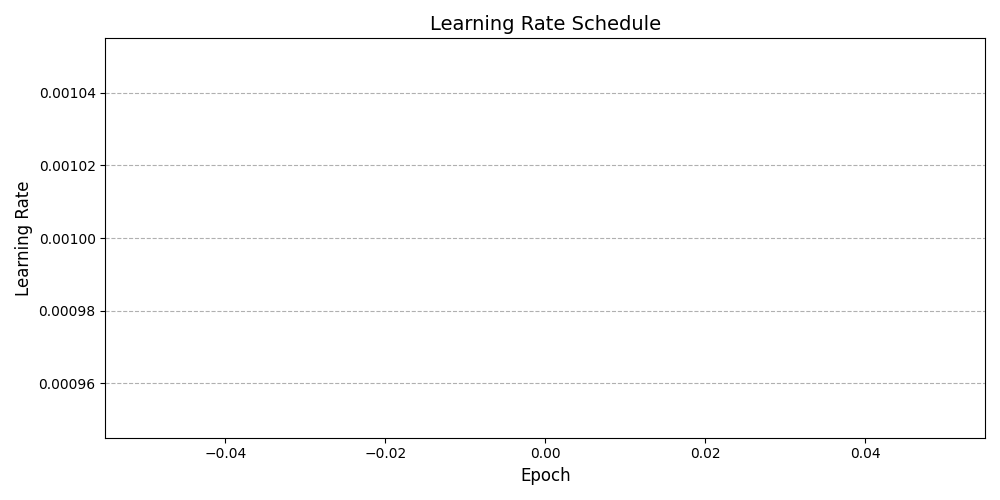
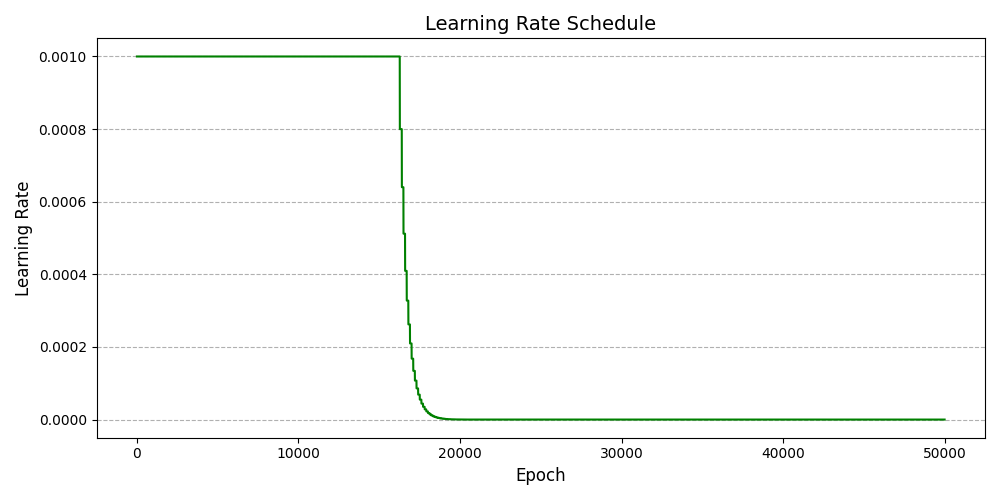
update readme

diff --git a/main.py b/main.py
@@ -53,7 +53,7 @@ optimizer = optim.Adam(model.parameters(), lr=0.001)
 
 # Learning Rate Scheduler
 scheduler = optim.lr_scheduler.ReduceLROnPlateau(optimizer, 'min', patience=100, factor=0.8, verbose=True)
-
+learning_rates = []
 loss_history = []
 test_loss_history = []  # Store test losses
 progress_bar = tqdm(range(epochs), desc='Training Progress')
@@ -77,6 +77,7 @@ for epoch in progress_bar:
         
     # Update learning rate scheduler
     scheduler.step(test_loss)
+    learning_rates.append(optimizer.param_groups[0]['lr'])
 
 
 # Evaluate on test set
@@ -100,9 +101,9 @@ plt.savefig('loss_curves.png')  # Save the plot
 plt.show()
 
 # 2. Learning Rate Schedule
-lrs = [group['lr'] for group in optimizer.param_groups]  # Extract learning rates
+
 plt.figure(figsize=(10, 5))
-plt.plot(lrs, color='green')
+plt.plot(learning_rates, label='Learning Rate', color='green')
 plt.title('Learning Rate Schedule', fontsize=14)
 plt.xlabel('Epoch', fontsize=12)
 plt.ylabel('Learning Rate', fontsize=12)
